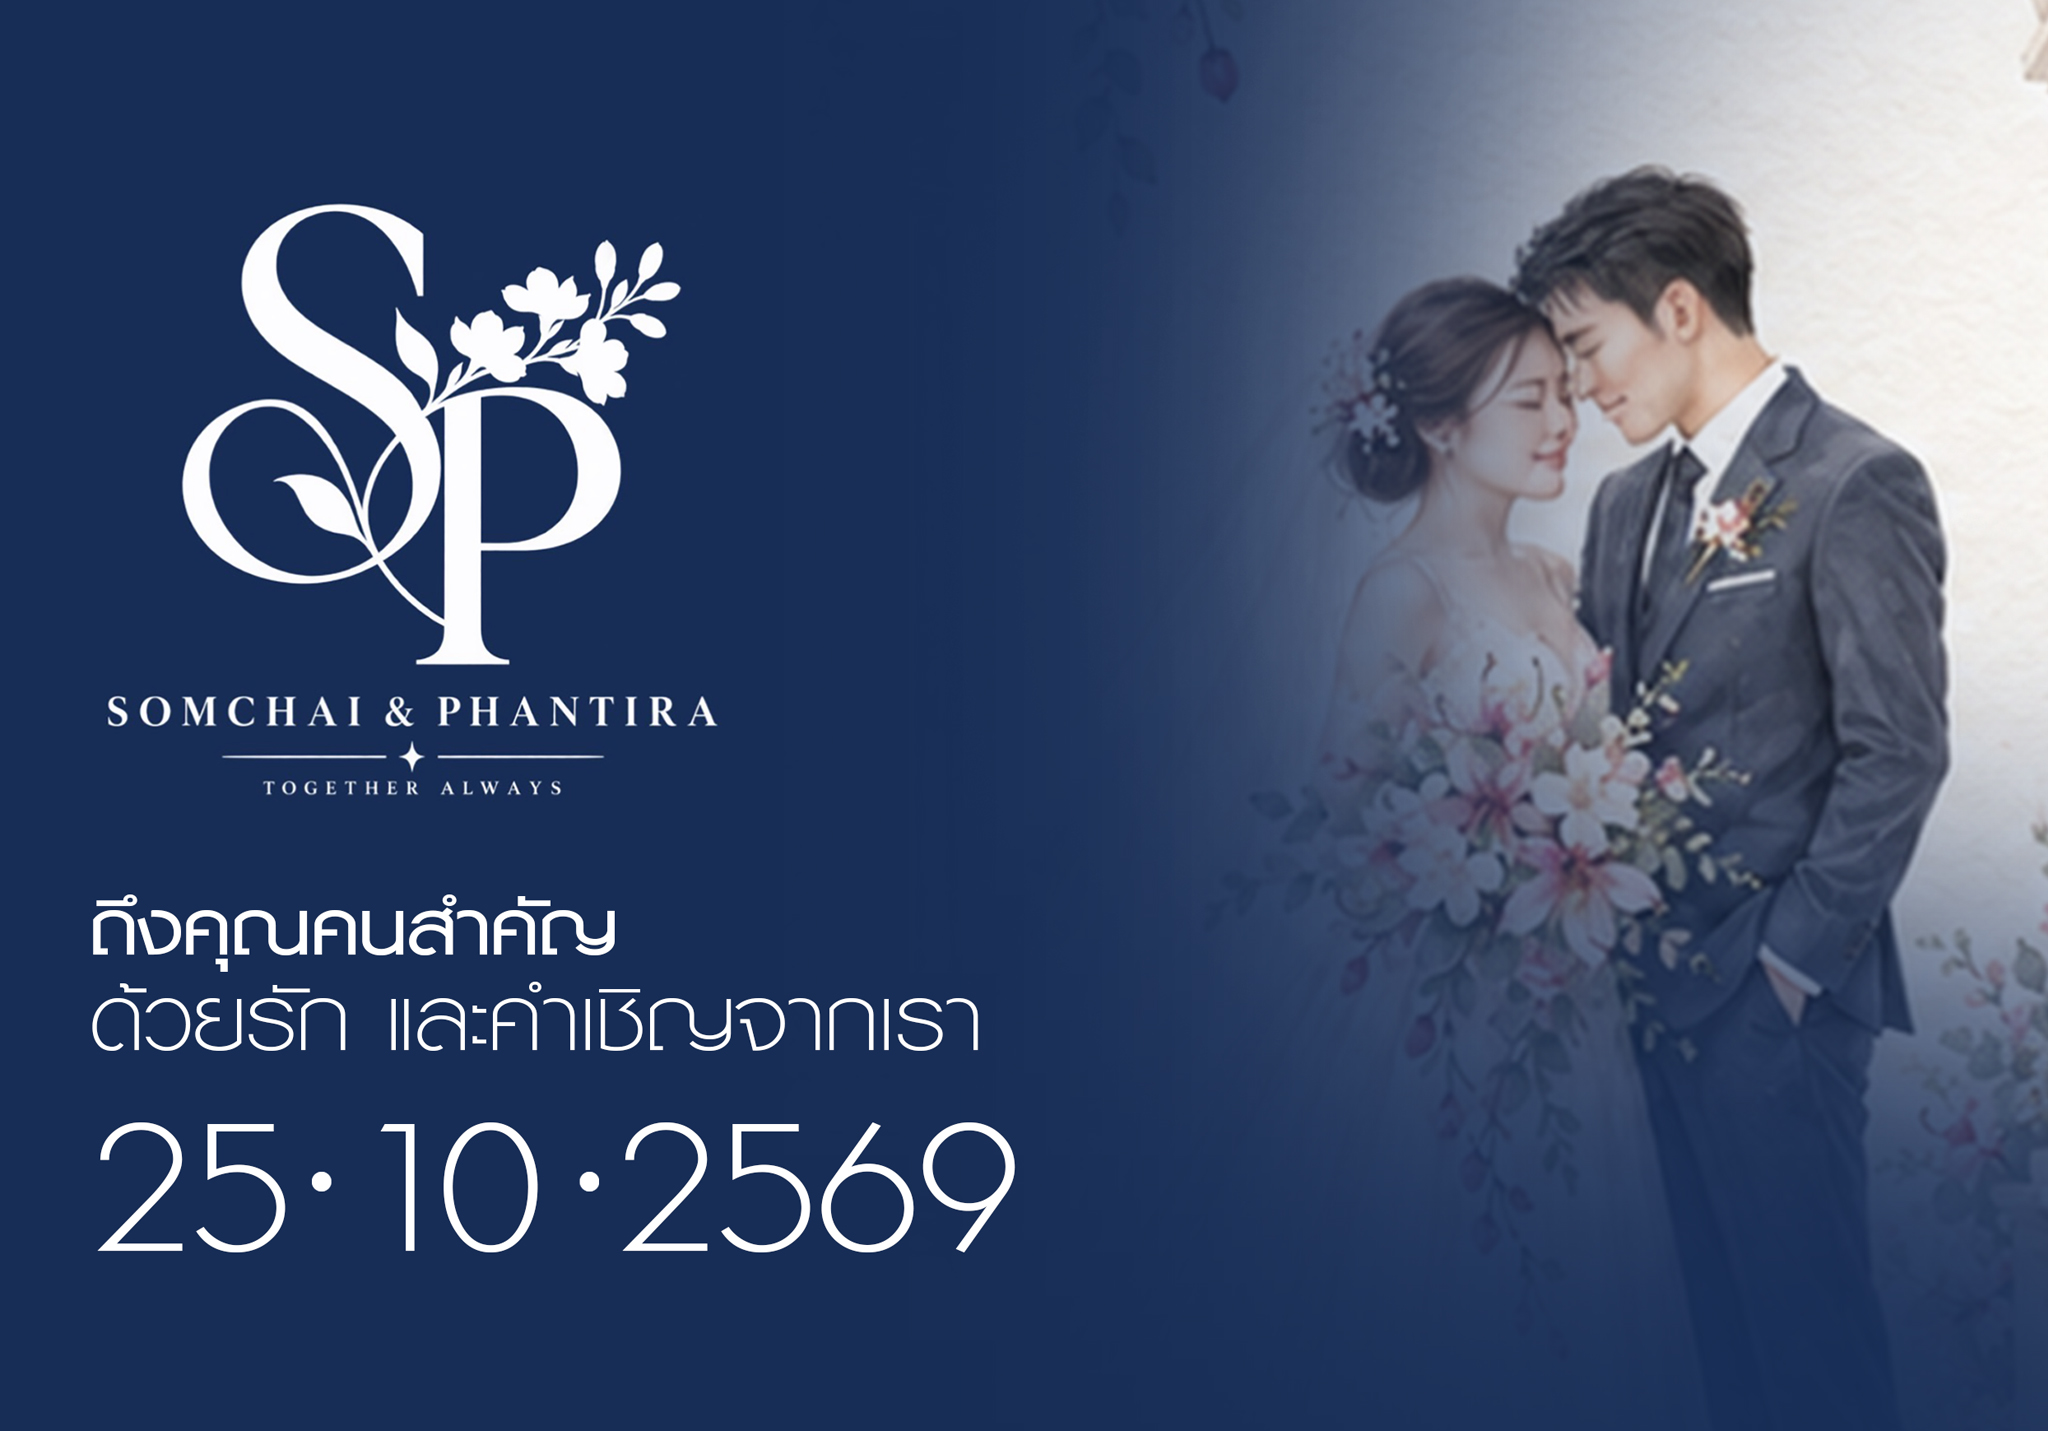
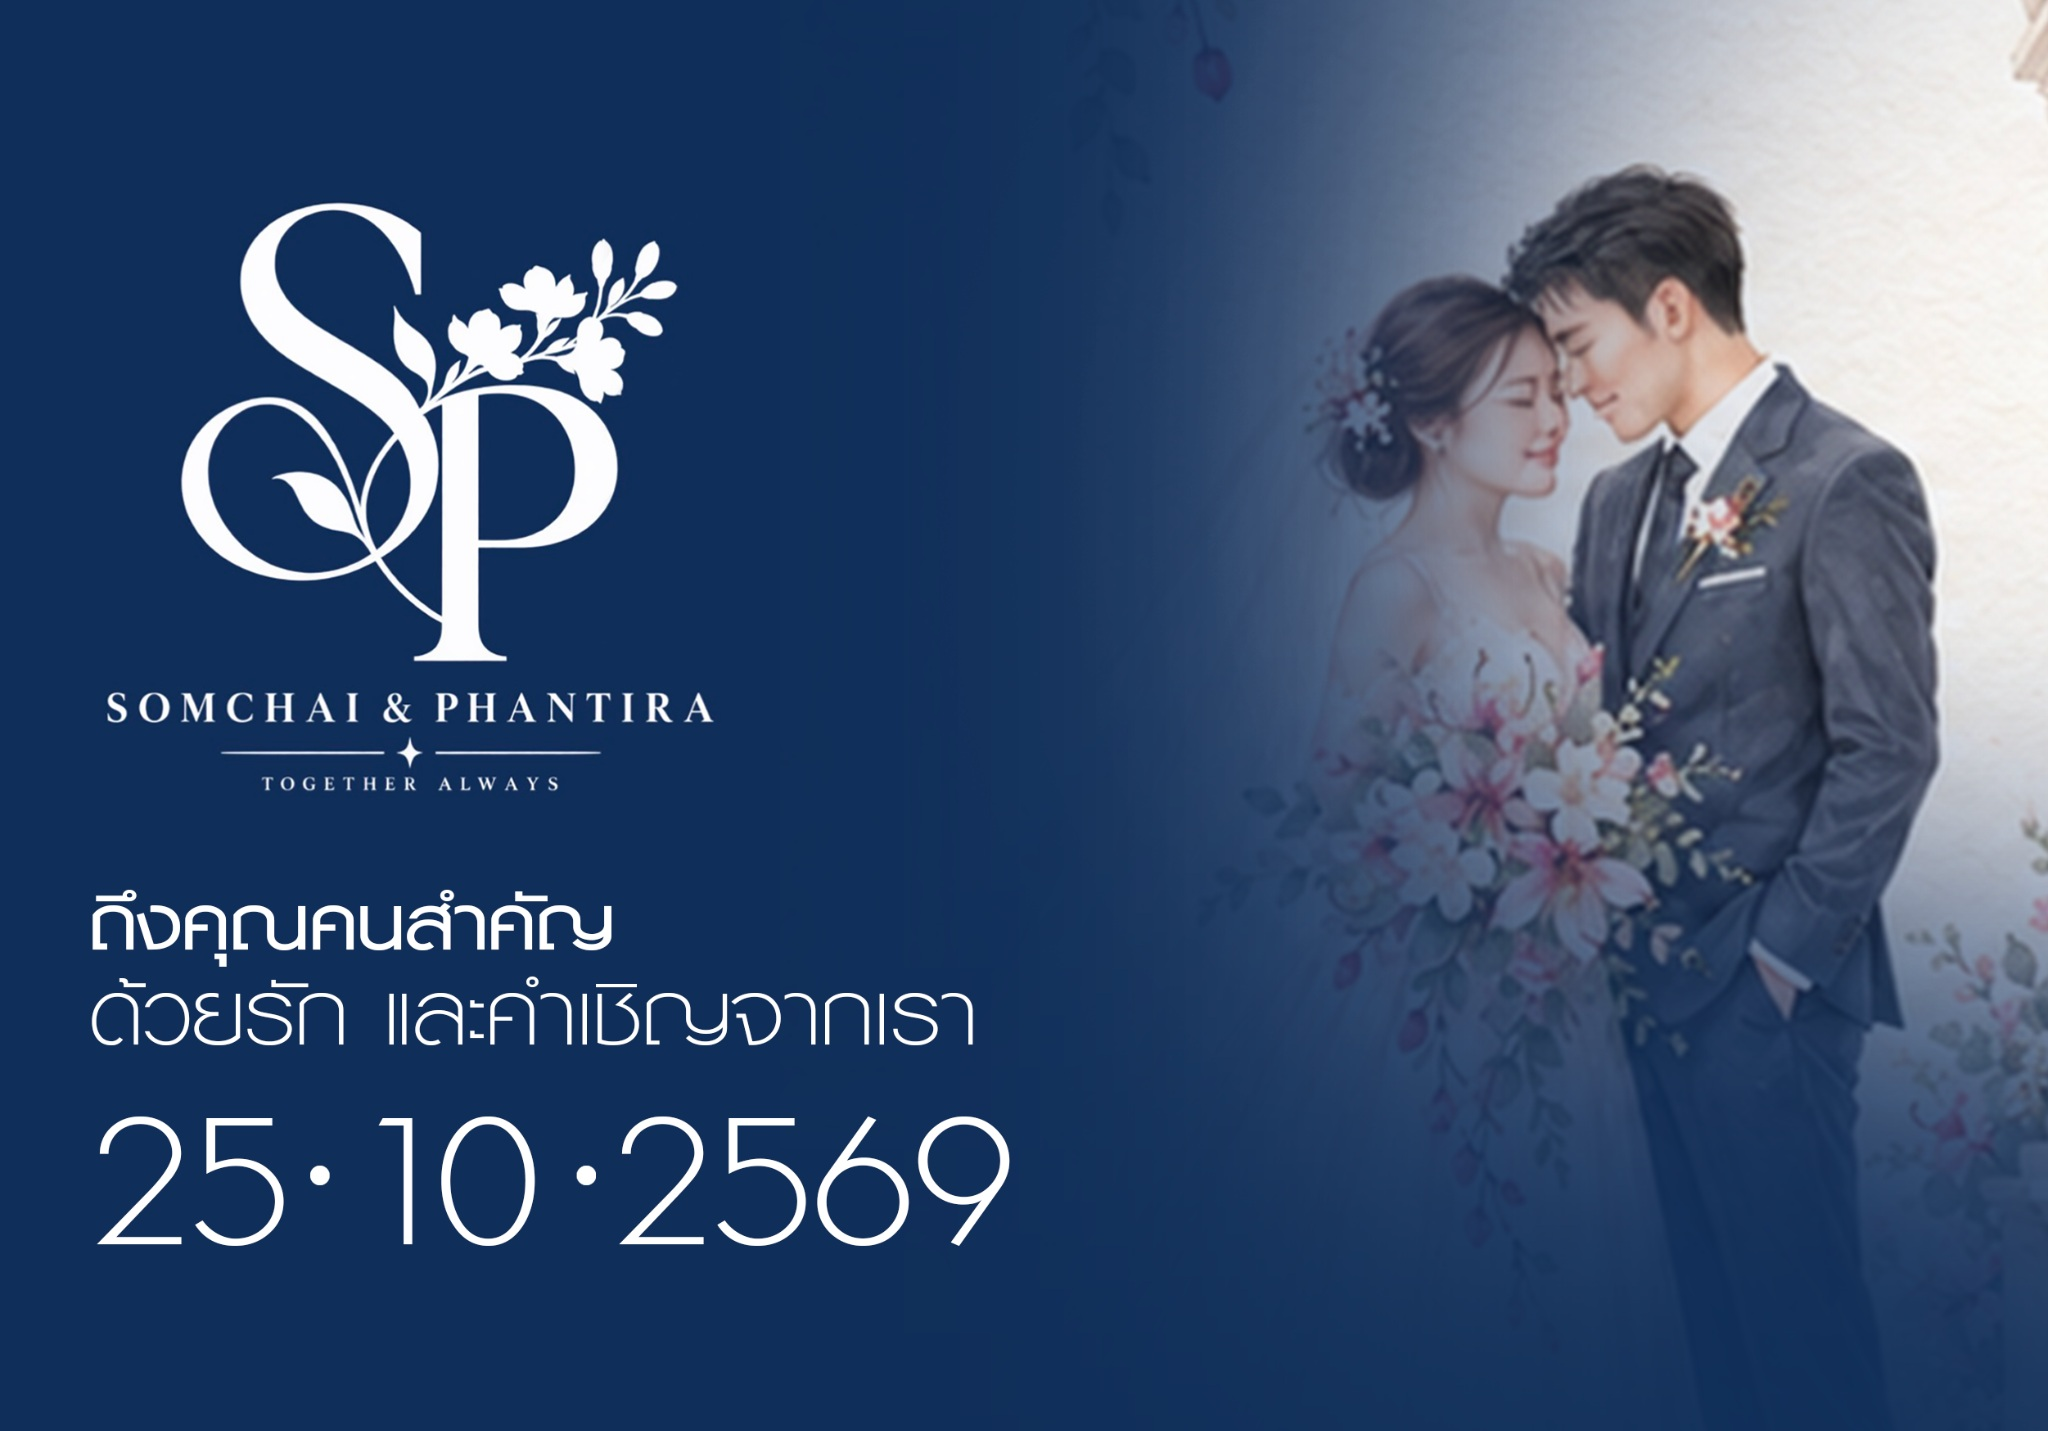
x

diff --git a/index.html b/index.html
@@ -13,17 +13,17 @@
   <meta property="og:title" content="Somchai &amp; Phantira — Wedding Invitation">
   <meta property="og:description" content="ขอเชิญร่วมเป็นส่วนหนึ่งในวันสำคัญของเรา 25 ตุลาคม 2569 ณ จังหวัดหนองคาย">
   <meta property="og:url" content="https://spwedding-teal.vercel.app/">
-  <meta property="og:image" content="https://spwedding-teal.vercel.app/assets/images/sp-wedding-rich-preview-v7.jpg?v=20260911-7">
-  <meta property="og:image:url" content="https://spwedding-teal.vercel.app/assets/images/sp-wedding-rich-preview-v7.jpg?v=20260911-7">
-  <meta property="og:image:secure_url" content="https://spwedding-teal.vercel.app/assets/images/sp-wedding-rich-preview-v7.jpg?v=20260911-7">
+  <meta property="og:image" content="https://spwedding-teal.vercel.app/assets/images/sp-wedding-rich-preview-v8.jpg?v=20260911-8">
+  <meta property="og:image:url" content="https://spwedding-teal.vercel.app/assets/images/sp-wedding-rich-preview-v8.jpg?v=20260911-8">
+  <meta property="og:image:secure_url" content="https://spwedding-teal.vercel.app/assets/images/sp-wedding-rich-preview-v8.jpg?v=20260911-8">
   <meta property="og:image:type" content="image/jpeg">
-  <meta property="og:image:width" content="1200">
-  <meta property="og:image:height" content="630">
+  <meta property="og:image:width" content="2048">
+  <meta property="og:image:height" content="1431">
   <meta property="og:image:alt" content="ภาพพรีวิวงานแต่ง Somchai และ Phantira วันที่ 25 ตุลาคม 2569">
   <meta name="twitter:card" content="summary_large_image">
   <meta name="twitter:title" content="Somchai &amp; Phantira — Wedding Invitation">
   <meta name="twitter:description" content="ขอเชิญร่วมเป็นส่วนหนึ่งในวันสำคัญของเรา 25 ตุลาคม 2569 ณ จังหวัดหนองคาย">
-  <meta name="twitter:image" content="https://spwedding-teal.vercel.app/assets/images/sp-wedding-rich-preview-v7.jpg?v=20260911-7">
+  <meta name="twitter:image" content="https://spwedding-teal.vercel.app/assets/images/sp-wedding-rich-preview-v8.jpg?v=20260911-8">
   <meta name="twitter:url" content="https://spwedding-teal.vercel.app/">
   <link rel="preload" href="assets/fonts/prompt-regular.ttf" as="font" type="font/ttf" crossorigin>
   <link rel="preload" href="assets/fonts/OrangeAvenueDEMO-Regular.otf" as="font" type="font/otf" crossorigin>

diff --git a/share.html b/share.html
@@ -12,16 +12,16 @@
   <meta property="og:url" content="https://spwedding-teal.vercel.app/card">
   <meta property="og:title" content="Somchai &amp; Phantira — Wedding Invitation">
   <meta property="og:description" content="ขอเชิญร่วมเป็นส่วนหนึ่งในวันสำคัญของเรา 25 ตุลาคม 2569 ณ จังหวัดหนองคาย">
-  <meta property="og:image" content="https://spwedding-teal.vercel.app/assets/images/sp-wedding-rich-preview-v7.jpg?v=20260911-7">
-  <meta property="og:image:secure_url" content="https://spwedding-teal.vercel.app/assets/images/sp-wedding-rich-preview-v7.jpg?v=20260911-7">
+  <meta property="og:image" content="https://spwedding-teal.vercel.app/assets/images/sp-wedding-rich-preview-v8.jpg?v=20260911-8">
+  <meta property="og:image:secure_url" content="https://spwedding-teal.vercel.app/assets/images/sp-wedding-rich-preview-v8.jpg?v=20260911-8">
   <meta property="og:image:type" content="image/jpeg">
-  <meta property="og:image:width" content="1200">
-  <meta property="og:image:height" content="630">
+  <meta property="og:image:width" content="2048">
+  <meta property="og:image:height" content="1431">
   <meta property="og:image:alt" content="Somchai และ Phantira — 25 ตุลาคม 2569">
   <meta name="twitter:card" content="summary_large_image">
   <meta name="twitter:title" content="Somchai &amp; Phantira — Wedding Invitation">
   <meta name="twitter:description" content="ขอเชิญร่วมเป็นส่วนหนึ่งในวันสำคัญของเรา 25 ตุลาคม 2569 ณ จังหวัดหนองคาย">
-  <meta name="twitter:image" content="https://spwedding-teal.vercel.app/assets/images/sp-wedding-rich-preview-v7.jpg?v=20260911-7">
+  <meta name="twitter:image" content="https://spwedding-teal.vercel.app/assets/images/sp-wedding-rich-preview-v8.jpg?v=20260911-8">
   <style>
     *{box-sizing:border-box}html,body{margin:0;min-height:100%;background:#123a73}
     body{min-height:100vh;display:grid;place-items:center;padding:24px;color:#fff;font-family:Arial,"Noto Sans Thai",Tahoma,sans-serif;text-align:center}

diff --git a/share/index.html b/share/index.html
@@ -12,16 +12,16 @@
   <meta property="og:url" content="https://spwedding-teal.vercel.app/card">
   <meta property="og:title" content="Somchai &amp; Phantira — Wedding Invitation">
   <meta property="og:description" content="ขอเชิญร่วมเป็นส่วนหนึ่งในวันสำคัญของเรา 25 ตุลาคม 2569 ณ จังหวัดหนองคาย">
-  <meta property="og:image" content="https://spwedding-teal.vercel.app/assets/images/sp-wedding-rich-preview-v7.jpg?v=20260911-7">
-  <meta property="og:image:secure_url" content="https://spwedding-teal.vercel.app/assets/images/sp-wedding-rich-preview-v7.jpg?v=20260911-7">
+  <meta property="og:image" content="https://spwedding-teal.vercel.app/assets/images/sp-wedding-rich-preview-v8.jpg?v=20260911-8">
+  <meta property="og:image:secure_url" content="https://spwedding-teal.vercel.app/assets/images/sp-wedding-rich-preview-v8.jpg?v=20260911-8">
   <meta property="og:image:type" content="image/jpeg">
-  <meta property="og:image:width" content="1200">
-  <meta property="og:image:height" content="630">
+  <meta property="og:image:width" content="2048">
+  <meta property="og:image:height" content="1431">
   <meta property="og:image:alt" content="Somchai และ Phantira — 25 ตุลาคม 2569">
   <meta name="twitter:card" content="summary_large_image">
   <meta name="twitter:title" content="Somchai &amp; Phantira — Wedding Invitation">
   <meta name="twitter:description" content="ขอเชิญร่วมเป็นส่วนหนึ่งในวันสำคัญของเรา 25 ตุลาคม 2569 ณ จังหวัดหนองคาย">
-  <meta name="twitter:image" content="https://spwedding-teal.vercel.app/assets/images/sp-wedding-rich-preview-v7.jpg?v=20260911-7">
+  <meta name="twitter:image" content="https://spwedding-teal.vercel.app/assets/images/sp-wedding-rich-preview-v8.jpg?v=20260911-8">
   <style>
     *{box-sizing:border-box}html,body{margin:0;min-height:100%;background:#123a73}
     body{min-height:100vh;display:grid;place-items:center;padding:24px;color:#fff;font-family:Arial,"Noto Sans Thai",Tahoma,sans-serif;text-align:center}

diff --git a/invite/index.html b/invite/index.html
@@ -16,17 +16,17 @@
   <meta property="og:title" content="Somchai &amp; Phantira — Wedding Invitation">
   <meta property="og:description" content="ขอเชิญร่วมเป็นส่วนหนึ่งในวันสำคัญของเรา 25 ตุลาคม 2569 ณ จังหวัดหนองคาย">
   <meta property="og:url" content="https://spwedding-teal.vercel.app/invite/">
-  <meta property="og:image" content="https://spwedding-teal.vercel.app/assets/images/sp-wedding-rich-preview-v7.jpg?v=20260911-7">
-  <meta property="og:image:secure_url" content="https://spwedding-teal.vercel.app/assets/images/sp-wedding-rich-preview-v7.jpg?v=20260911-7">
+  <meta property="og:image" content="https://spwedding-teal.vercel.app/assets/images/sp-wedding-rich-preview-v8.jpg?v=20260911-8">
+  <meta property="og:image:secure_url" content="https://spwedding-teal.vercel.app/assets/images/sp-wedding-rich-preview-v8.jpg?v=20260911-8">
   <meta property="og:image:type" content="image/jpeg">
-  <meta property="og:image:width" content="1200">
-  <meta property="og:image:height" content="630">
+  <meta property="og:image:width" content="2048">
+  <meta property="og:image:height" content="1431">
   <meta property="og:image:alt" content="Somchai และ Phantira — Wedding Invitation — 25 ตุลาคม 2569">
 
   <meta name="twitter:card" content="summary_large_image">
   <meta name="twitter:title" content="Somchai &amp; Phantira — Wedding Invitation">
   <meta name="twitter:description" content="ขอเชิญร่วมเป็นส่วนหนึ่งในวันสำคัญของเรา 25 ตุลาคม 2569 ณ จังหวัดหนองคาย">
-  <meta name="twitter:image" content="https://spwedding-teal.vercel.app/assets/images/sp-wedding-rich-preview-v7.jpg?v=20260911-7">
+  <meta name="twitter:image" content="https://spwedding-teal.vercel.app/assets/images/sp-wedding-rich-preview-v8.jpg?v=20260911-8">
 
   <style>
     html,body{height:100%;margin:0}
